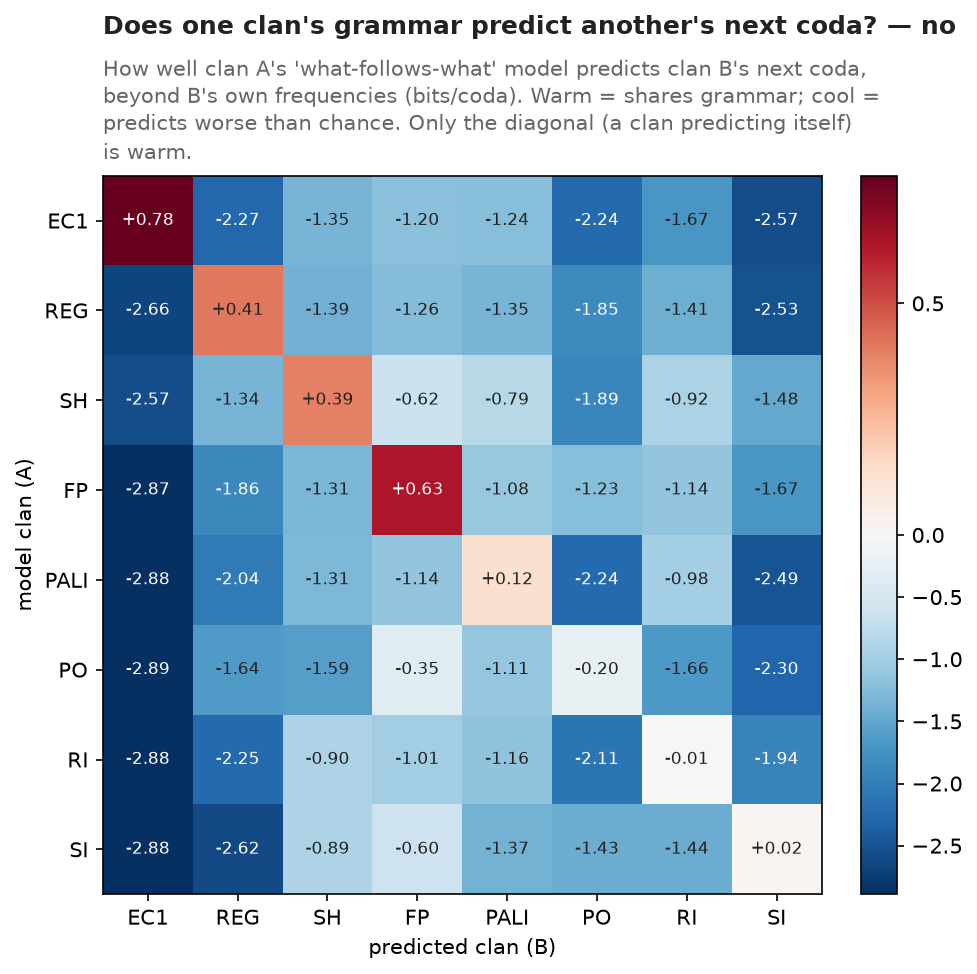
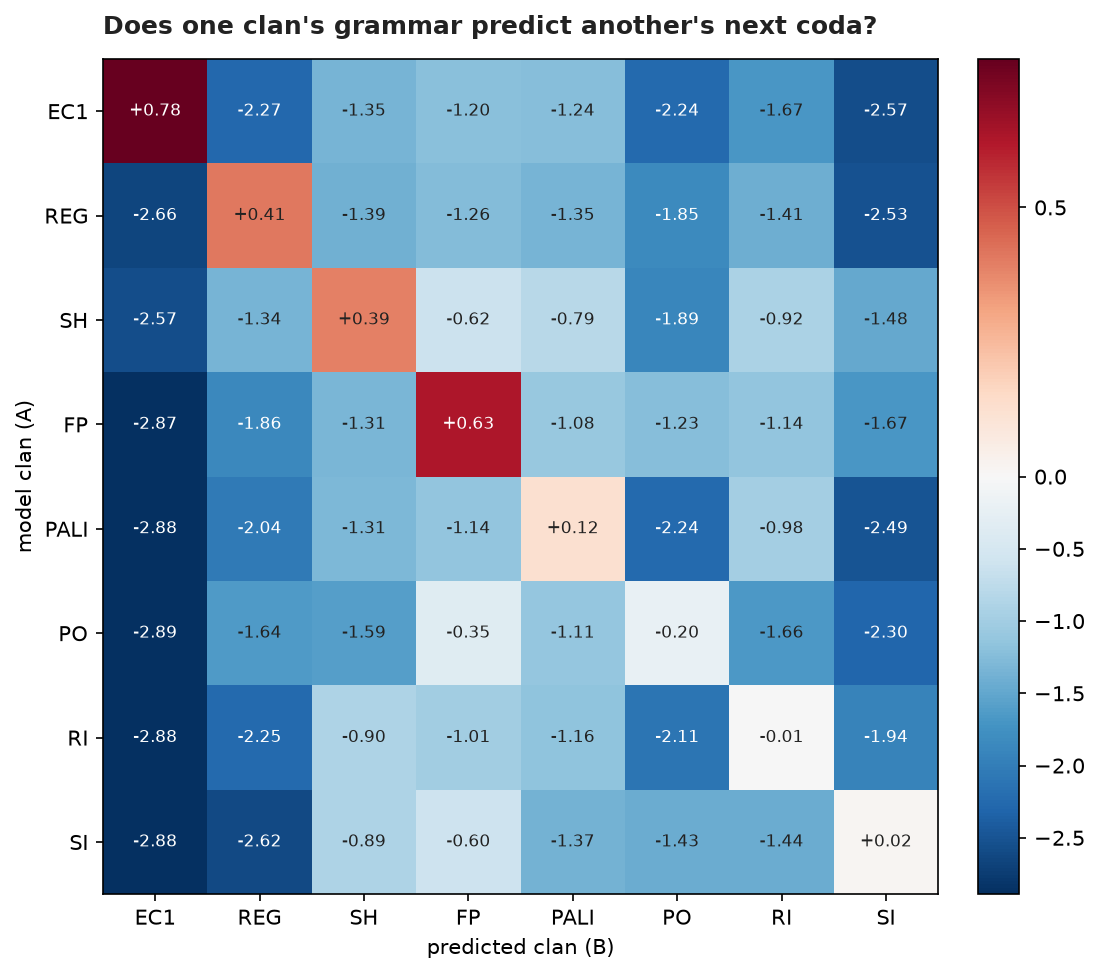
Clean up heatmap figures: drop gray subtitles and the "— no" in figure 4's title
_heatmap now skips the subtitle annotation when it's empty. Figures 4 and 5 render
with just their titles.

diff --git a/src/coda_recovery/clan_similarity.py b/src/coda_recovery/clan_similarity.py
@@ -130,11 +130,14 @@ def _heatmap(M, title, sub, fname, cmap, fmt="{:+.2f}", norm=None,
             lum = 0.299 * r + 0.587 * g + 0.114 * b
             ax.text(j, i, fmt.format(v), ha="center", va="center", fontsize=8,
                     color="white" if lum < 0.5 else "#222")
-    sub = textwrap.fill(sub, width=74)
-    ax.set_title(title, loc="left", fontweight="bold", pad=16 + 13 * (sub.count("\n") + 1),
-                 color="#222")
-    ax.annotate(sub, xy=(0, 1), xytext=(0, 8), xycoords="axes fraction",
-                textcoords="offset points", fontsize=10, color="#666", linespacing=1.3)
+    if sub:
+        sub = textwrap.fill(sub, width=74)
+        ax.set_title(title, loc="left", fontweight="bold", pad=16 + 13 * (sub.count("\n") + 1),
+                     color="#222")
+        ax.annotate(sub, xy=(0, 1), xytext=(0, 8), xycoords="axes fraction",
+                    textcoords="offset points", fontsize=10, color="#666", linespacing=1.3)
+    else:
+        ax.set_title(title, loc="left", fontweight="bold", pad=12, color="#222")
     fig.colorbar(im, fraction=0.046, pad=0.04)
     fig.tight_layout(); FIG.mkdir(parents=True, exist_ok=True)
     fig.savefig(FIG / fname, dpi=150, bbox_inches="tight"); plt.close(fig)
@@ -176,15 +179,10 @@ def main():
     # cross-prediction is diverging around a meaningful zero (positive = shared
     # grammar, negative = actively mis-predicts): two hues, neutral (white) at 0.
     tnorm = TwoSlopeNorm(vmin=float(np.nanmin(T)), vcenter=0.0, vmax=float(np.nanmax(T)))
-    _heatmap(T, "Does one clan's grammar predict another's next coda? — no",
-             "How well clan A's 'what-follows-what' model predicts clan B's next coda, beyond B's own "
-             "frequencies (bits/coda). Warm = shares grammar; cool = predicts worse than chance. "
-             "Only the diagonal (a clan predicting itself) is warm.",
+    _heatmap(T, "Does one clan's grammar predict another's next coda?", "",
              "4_grammar_is_clan_specific.png", "RdBu_r", norm=tnorm)
     # Procrustes distance is sequential magnitude (0 = identical): one hue, light→dark.
-    _heatmap(D, "Each clan's sequencing has its own distinct shape",
-             "Distance between clans' (rhythm,tempo) transition patterns after the best possible "
-             "alignment (Procrustes; 0 = identical, darker = more different). Symmetric; every clan pair is far apart.",
+    _heatmap(D, "Each clan's sequencing has its own distinct shape", "",
              "5_grammar_geometry.png", "Purples", fmt="{:.2f}", xlabel="clan", ylabel="clan")
     print("\nwrote results/clan_similarity.csv, figures plain/4 figures plain/3 & plain/4 plain/5")
 
